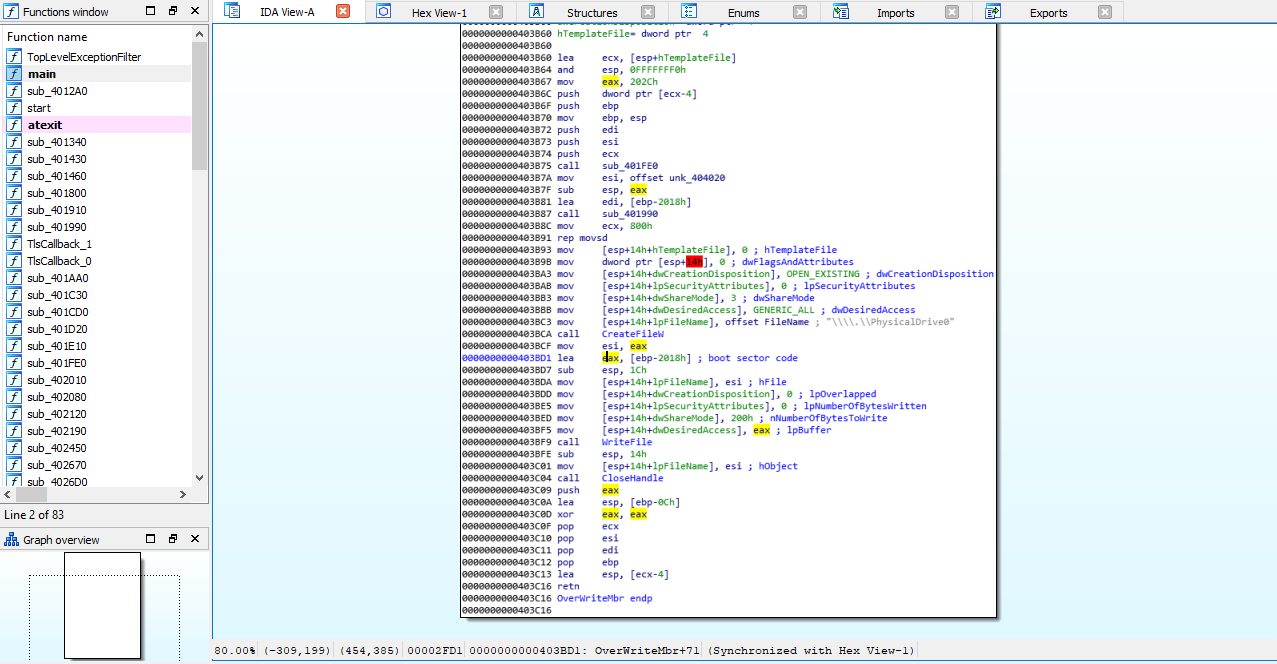
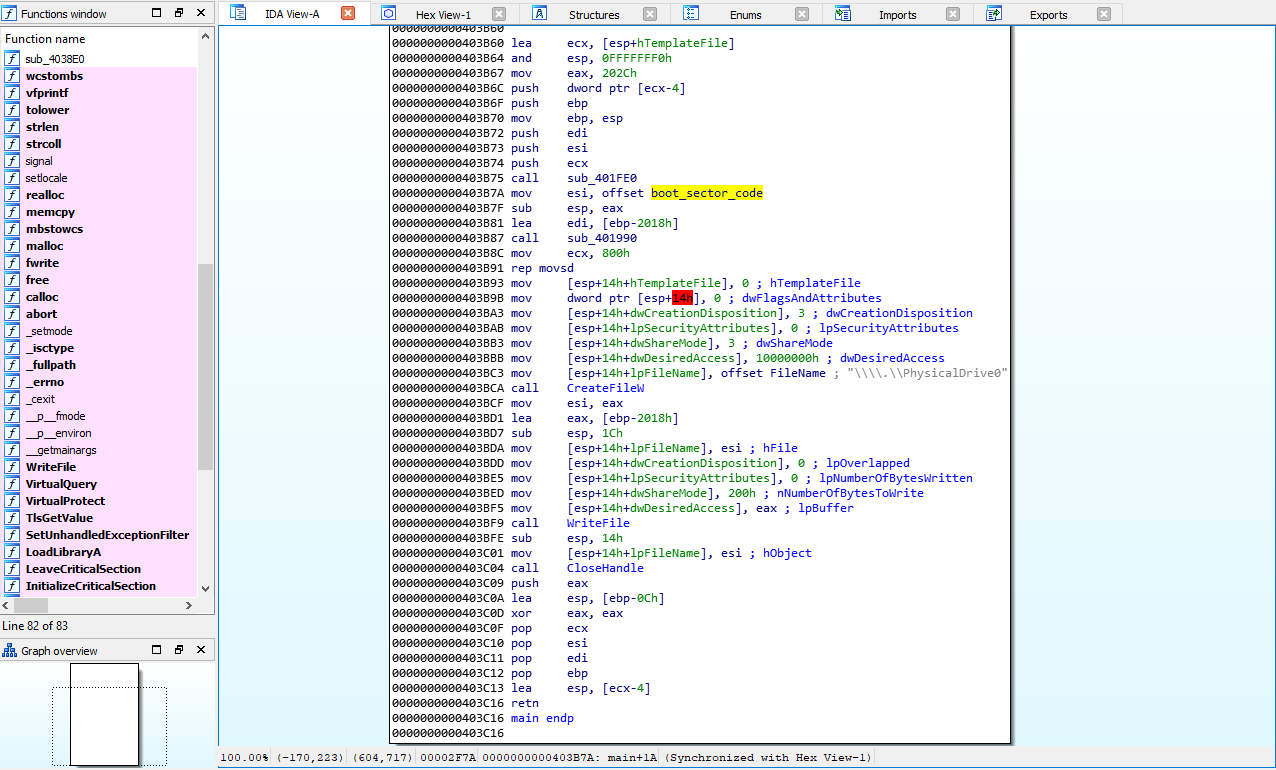
.

Changed region(s): [[0.0, 0.0, 1.0, 1.0]]

diff --git a/post/analysis/whispergate/whispergate/index.html b/post/analysis/whispergate/whispergate/index.html
@@ -228,7 +228,7 @@ start function calls <code>sub_4011b0</code> after setting the app type.</p>
 <p><img src="/img/whispergate/calls_403b60.png" alt="">
 <code>sub_4011b0</code> calls function <code>sub_403b60</code> that is responsible for main functionality of the malware.</p>
 <p><img src="/img/whispergate/overwritembr.png" alt="">
-the function copies 2048 bytes at global offset `` into the stack.</p>
+the function copies 2048 bytes at offset <code>boot_sector_code</code> into the stack.</p>
 <p><img src="/img/whispergate/bootsectorcode.png" alt=""></p>
 <p><img src="/img/whispergate/bootsignature.png" alt="">
 offset contains bytes of compiled x86 real mode boot sector code, along with the boot signature <code>0x55AA</code>.</p>
